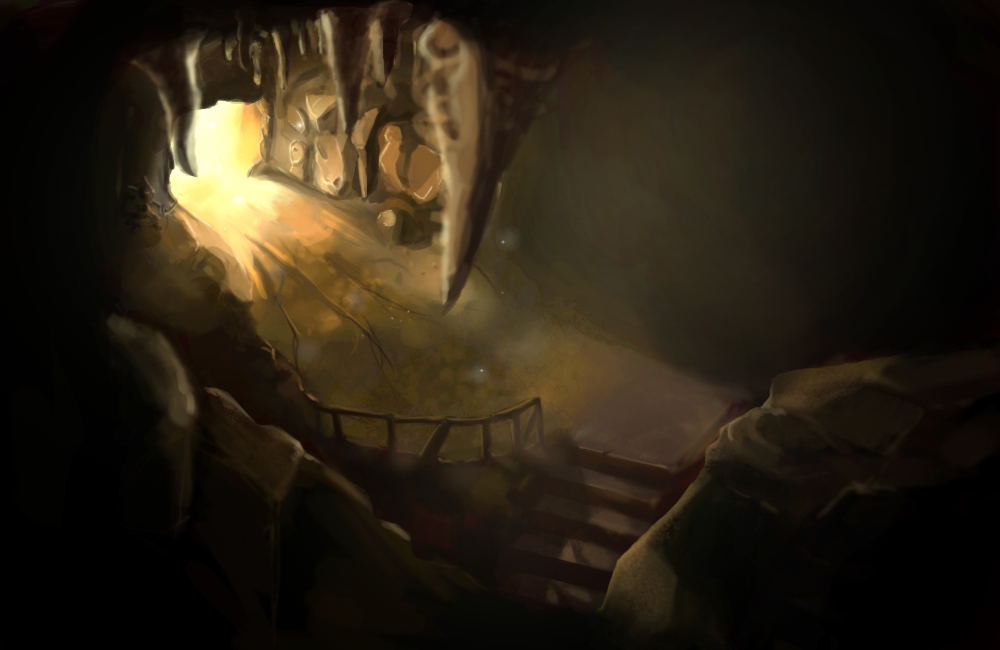
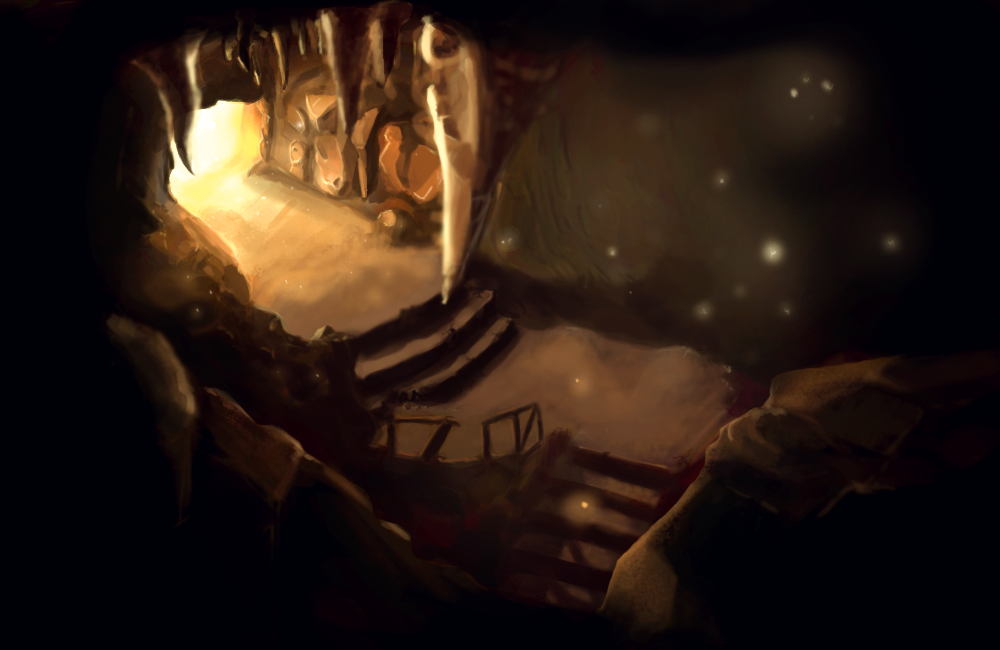
Zooming in and out implemented.

diff --git a/DungeonsOfTheWitcher/src/com/ernyz/dotw/View/WorldRenderer.java b/DungeonsOfTheWitcher/src/com/ernyz/dotw/View/WorldRenderer.java
@@ -38,6 +38,11 @@ public final class WorldRenderer {
 	private OrthographicCamera camera;
 	private float width;
 	private float height;
+	//Stuff used for zooming in/out
+	private final Float viewportMultiplierDefaultValue = 1f;
+	private final Float viewportMultiplierMinValue = 0.1f;
+	private final Float viewportMultiplierMaxValue = 2.0f;
+	private Float viewportMultiplier;
 	
 	private Player player;
 	
@@ -51,9 +56,10 @@ public final class WorldRenderer {
 
 		width = Gdx.graphics.getWidth();
 		height = Gdx.graphics.getHeight();
+		viewportMultiplier = viewportMultiplierDefaultValue;
 		
 		camera = new OrthographicCamera();
-		camera.setToOrtho(false, width, height);
+		camera.setToOrtho(false, width*viewportMultiplier, height*viewportMultiplier);
 		camera.update();
 		
 		batch = new SpriteBatch();
@@ -78,7 +84,8 @@ public final class WorldRenderer {
 		player = gameWorld.getPlayer();
 		
 		//Update camera
-		camera.position.set(player.getPosition().x+player.getWidth()/2 + gameWorld.getHUD().getBgTexture().getWidth()/2, player.getPosition().y+player.getHeight()/2 - gameWorld.getHUD().getOutputBGTexture().getHeight()/2, 0);
+		camera.setToOrtho(false, width*viewportMultiplier, height*viewportMultiplier);
+		camera.position.set(player.getPosition().x+player.getWidth()/2/* + gameWorld.getHUD().getBgTexture().getWidth()/2*/, player.getPosition().y+player.getHeight()/2/* - gameWorld.getHUD().getOutputBGTexture().getHeight()/2*/, 0);
 		camera.update();
 		
 		//Draw stuff that is invisible unless lit
@@ -201,6 +208,19 @@ public final class WorldRenderer {
 	
 	public OrthographicCamera getCamera() {
 		return camera;
+	}
+
+	public Float getViewportMultiplier() {
+		return viewportMultiplier;
+	}
+
+	public void setViewportMultiplier(Float viewportMultiplier) {
+		this.viewportMultiplier = viewportMultiplier;
+		if(this.viewportMultiplier < viewportMultiplierMinValue) {
+			this.viewportMultiplier = viewportMultiplierMinValue;
+		} else if(this.viewportMultiplier > viewportMultiplierMaxValue) {
+			this.viewportMultiplier = viewportMultiplierMaxValue;
+		}
 	}
 
 }

diff --git a/DungeonsOfTheWitcher/src/com/ernyz/dotw/View/InputView.java b/DungeonsOfTheWitcher/src/com/ernyz/dotw/View/InputView.java
@@ -1,5 +1,7 @@
 package com.ernyz.dotw.View;
 
+import com.badlogic.gdx.Gdx;
+import com.badlogic.gdx.Input;
 import com.badlogic.gdx.Input.Keys;
 import com.badlogic.gdx.InputProcessor;
 import com.badlogic.gdx.math.Vector2;
@@ -110,6 +112,13 @@ public class InputView implements InputProcessor {
 
 	@Override
 	public boolean scrolled(int amount) {
+		if(Gdx.input.isKeyPressed(Keys.CONTROL_LEFT)) {
+			if(amount > 0) {
+				worldRenderer.setViewportMultiplier(worldRenderer.getViewportMultiplier() + 0.05f);
+			} else if(amount < 0) {
+				worldRenderer.setViewportMultiplier(worldRenderer.getViewportMultiplier() - 0.05f);
+			}
+		}
 		return false;
 	}
 

diff --git a/DungeonsOfTheWitcher/src/com/ernyz/dotw/Screens/CharacterDeletionScreen.java b/DungeonsOfTheWitcher/src/com/ernyz/dotw/Screens/CharacterDeletionScreen.java
@@ -66,7 +66,7 @@ public class CharacterDeletionScreen implements Screen {
 		stage.addActor(table);
 		
 		table.row();
-		screenTitle = new Label("Chose a character save file to delete", skin);
+		screenTitle = new Label("Choose a character save file to delete", skin);
 		table.add(screenTitle);
 		
 		table.row();
